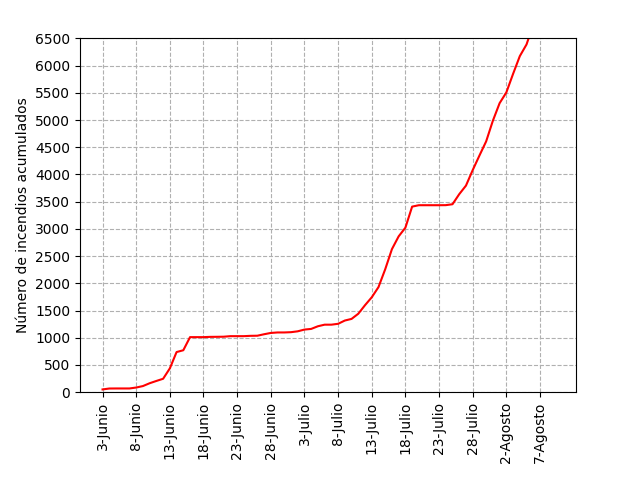
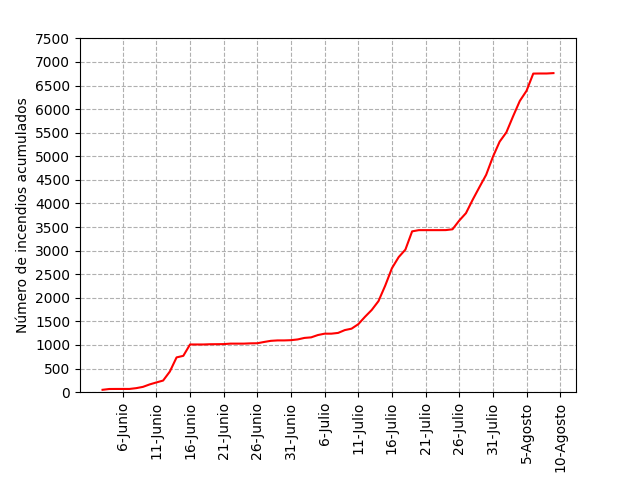
[ADD ] Change in the x-axis on the plot NIA.png

Changed region(s): [[0.0312, 0.0625, 0.9062, 0.8125], [0.1562, 0.8438, 0.9062, 0.9688]]

diff --git a/Scripts/DataPlot.py b/Scripts/DataPlot.py
@@ -46,12 +46,15 @@ dir="../FIRMS/viirs/South_America/"
 #<----------------------Dimensiones de la imagen-------------------->
 fig_x,fig_y=360.5,358.5
 files=listdir(dir);files=np.sort(files)
+day_part=5
 #<-------------------------Lectura de la imagen------------------->
 map=plt.imread("../Graphics/map2.png")
 month_name=["Junio","Julio","Agosto"]
 n_data=np.size(files)
+res=n_data%day_part
 sum_t=np.zeros(n_data);date_data=[]
 k=0
+print("Calculando suma de incendios")
 for file in files:
     lat,lon=np.loadtxt(dir+file,delimiter=",",skiprows=1,usecols=[0,1],unpack=True)
     #<------------------------Valores iniciales de la localizacion------------------->
@@ -74,8 +77,8 @@ for file in files:
         sum_t[k]=sum_t[k-1]+sum
     else:
         sum_t[k]=sum
-    if k%5==0:
-        date_data=np.append(date_data,str(days)+"-"+month_name[month-6])
+    if (k+res)%day_part==0:
+        date_data=np.append(date_data,str(days+1)+"-"+month_name[month-6])
     k+=1
     #<-------------------Traslacion de los puntos------------------------------->
     lon,lat,lon_i,lat_i=tras(lon,lat,lon_i,lat_i,fig_x,fig_y,n)
@@ -102,16 +105,19 @@ for file in files:
     plt.ylim(lat_i[0],lat_i[1])
     plt.savefig(str(day)+".png")
     plt.clf()
+print("Creando gif")
 script = sys.argv.pop(0)
 duration = 0.5
 filenames = sorted(filter(os.path.isfile, [x for x in os.listdir() if x.endswith(".png")]), key=lambda p: os.path.exists(p) and os.stat(p).st_mtime or time.mktime(datetime.now().timetuple()))
 create_gif(filenames, duration)
 os.system("rm *.png")
+print("Creando grafica de incencios acumulados")
 plt.subplots_adjust(left=0.125,right=0.9,bottom=0.183,top=0.92)
 plt.plot(np.arange(n_data),sum_t,color="red")
 plt.ylabel("Número de incendios acumulados")
-plt.xticks(np.arange(0,n_data,5),date_data,rotation=90)
-plt.ylim(0,5500)
-plt.yticks(np.arange(0,6200+500,500))
+plt.xticks(np.arange(res,n_data+res,day_part),date_data,rotation=90)
+limy=7500
+plt.ylim(0,limy)
+plt.yticks(np.arange(0,limy+500,500))
 plt.grid(ls="--")
 plt.savefig("../Graphics/NIA.png")
